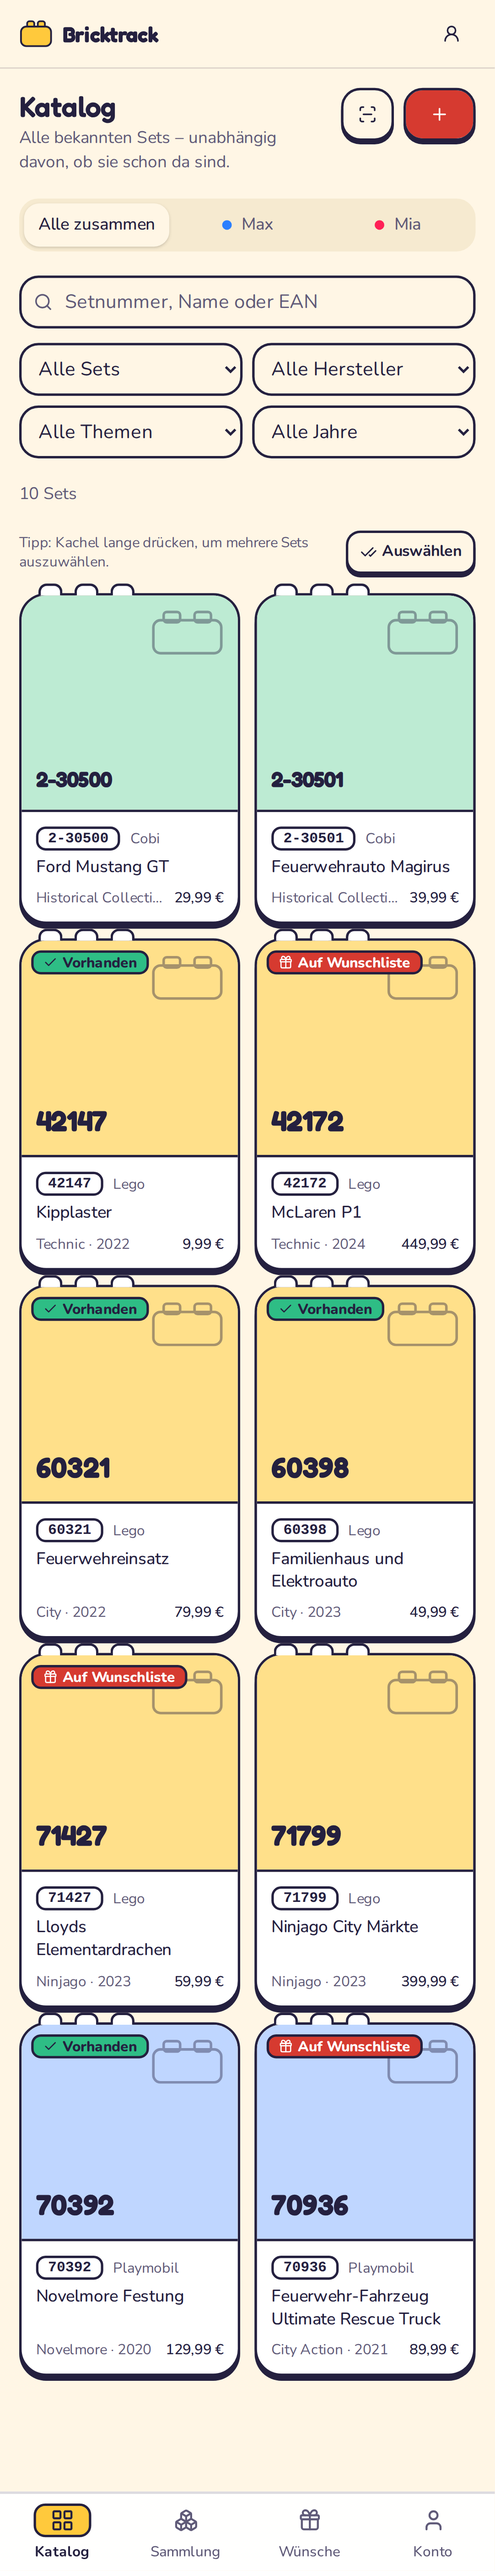
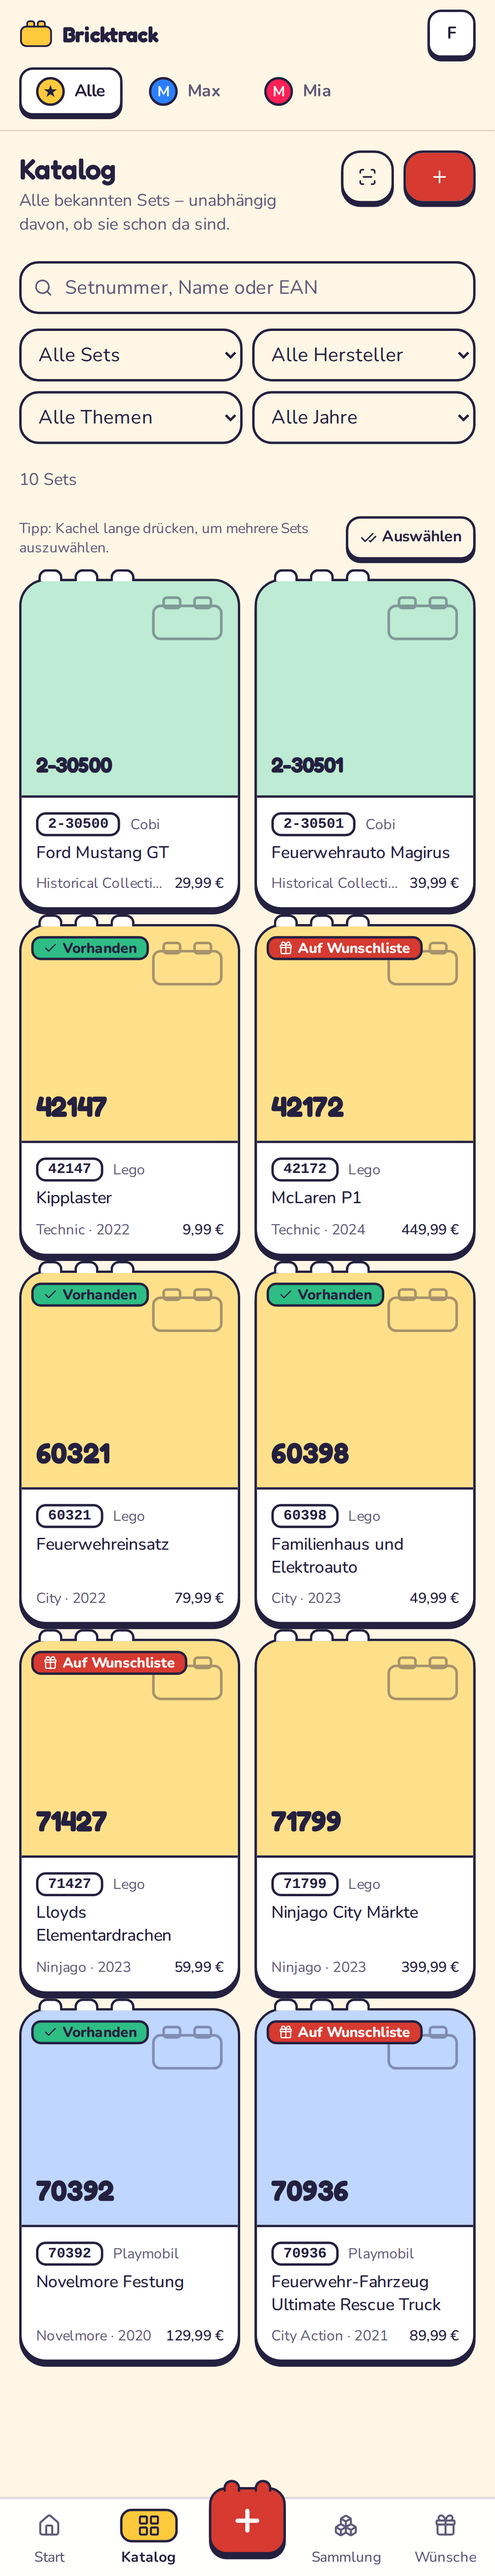
docs: neue navigation in anleitung, schnellstart und screenshots

diff --git a/docs/ANLEITUNG.md b/docs/ANLEITUNG.md
@@ -63,7 +63,21 @@ Die Startseite zeigt auf einen Blick, wo die Sammlung steht:
 | **Abkürzungen** | Direkt zu den fehlenden Sets, zu den Wunschlisten oder zu einem neuen Set |
 
 Unten am Bildschirmrand liegt die Navigation – auf dem Handy mit dem Daumen
-erreichbar. Der aktive Bereich sitzt auf einer kleinen Platte.
+erreichbar: **Start, Katalog, Sammlung, Wünsche** und in der Mitte der rote
+**＋-Stein**. Der aktive Bereich sitzt auf einer kleinen Platte.
+
+![Das Plus-Menü](bilder/26-plus-menue.png)
+
+Das **＋** bündelt alle Wege, wie ein Set in den Katalog kommt: Strichcode
+scannen, aus einem Link übernehmen, Lego-Nummer holen oder von Hand eintragen.
+
+![Die Mehr-Seite](bilder/27-mehr.png)
+
+Alles, was man nicht täglich braucht, liegt hinter dem Kästchen mit deinen
+Initialen oben rechts – der Seite **Mehr**: Konto und Passkeys, Design,
+Sammler, Einladungen, Erinnerungen, Hersteller, Themen, Standorte sowie
+Export und Import. Was nur der Administrator darf, sehen Mitglieder dort gar
+nicht erst.
 
 Sets ohne Bild bekommen einen farbigen Platzhalter mit der Setnummer. Jeder
 Hersteller hat seine eigene Farbe – Lego gelb, Playmobil blau, Cobi grün.
@@ -74,8 +88,9 @@ Hersteller hat seine eigene Farbe – Lego gelb, Playmobil blau, Cobi grün.
 
 ![Hersteller verwalten](bilder/03-verwaltung-hersteller.png)
 
-Bevor du Sets anlegst, brauchst du mindestens einen **Hersteller**. Zu finden
-über das Konto-Menü oben rechts → **Verwaltung**.
+Bevor du Sets von Hand anlegst, brauchst du mindestens einen **Hersteller**.
+Zu finden unter **Mehr → Hersteller**. Der Lego-Import und die Übernahme aus
+einem Link legen fehlende Hersteller selbst an.
 
 Drei Arten von Stammdaten:
 
@@ -117,7 +132,7 @@ Die Kacheln zeigen auf einen Blick:
 - **„Auf Wunschliste"** – steht auf mindestens einer Liste
 - Setnummer, Hersteller, Thema, Jahr und UVP
 
-Mit **„Set anlegen"** oben rechts kommt ein neues Set dazu. Pflicht sind nur
+Über das **＋** in der Navigation kommt ein neues Set dazu. Pflicht sind nur
 Hersteller, Setnummer und Name; alles andere kannst du nachtragen. Ein Bild
 lädst du entweder hoch (es wird verkleinert und lokal gespeichert) oder du
 hinterlegst eine Bild-URL.
@@ -286,7 +301,7 @@ zweites Mal.
 
 ![Konto und Passkeys](bilder/16-konto-passkeys.png)
 
-Unter **Konto → Passkeys → Passkey hinzufügen** hinterlegst du Fingerabdruck,
+Unter **Mehr → Konto & Passkeys → Passkey hinzufügen** hinterlegst du Fingerabdruck,
 Gesichtserkennung oder die Geräte-PIN als Anmeldung. Danach reicht auf der
 Anmeldeseite ein Tipp auf „Mit Passkey anmelden" – auf vielen Geräten schlägt
 der Browser den Passkey sogar von selbst vor.
@@ -310,7 +325,7 @@ Sets von Hand einzutippen ist der langsame Weg. Es gibt drei schnellere.
 
 ### Aus einem Link übernehmen – für alle Hersteller
 
-Auf **Katalog → Set anlegen** steht das Feld „Aus einem Link übernehmen".
+Über **＋ → Aus Link** landest du im Feld „Aus einem Link übernehmen".
 Dort passt jeder Link zu einem Set hinein: Amazon, idealo, geizhals, der Shop
 des Herstellers oder eine Set-Datenbank wie
 [Brickfact](https://brickfact.com) (Lego) und
@@ -340,7 +355,7 @@ Katalog, kommt statt des Formulars ein Link zum vorhandenen Eintrag.
 
 ![Lego-Import](bilder/17-lego-import.png)
 
-Auf **Katalog → Set anlegen** steht oben das Feld für den Import. Setnummer
+Über **＋ → Lego-Nummer** landest du im Feld für den Import. Setnummer
 von der Packung eintippen, „Holen" – und Name, Jahr, Teile, Minifiguren und
 Thema stehen drin. Das Bild wird **lokal gespeichert**, funktioniert also auch
 weiter, wenn die Quelle es irgendwann austauscht. Fehlen Hersteller oder
@@ -393,7 +408,7 @@ der Sammlung stimmt damit, ohne dass du daran denken musst.
 
 Die Registrierung ist nach dem ersten Konto geschlossen – sonst könnte sich
 jeder, der die Adresse kennt, ein Konto anlegen. Für den zweiten Elternteil
-gibt es deshalb **Verwaltung → Einladungen**:
+gibt es deshalb **Mehr → Einladungen**:
 
 1. „Einladung erstellen", optional an eine E-Mail-Adresse gebunden, mit Rolle
    und Gültigkeit.
@@ -411,7 +426,7 @@ zusätzlich einladen und Daten exportieren.
 
 ![Daten](bilder/20-daten.png)
 
-Unter **Verwaltung → Daten** gibt es drei Downloads:
+Unter **Mehr → Export & Import** gibt es drei Downloads:
 
 | | Wofür |
 |---|---|
@@ -471,14 +486,16 @@ Sammler. Ein Set, das nur die Schwester hat, fällt für den Bruder wieder unter
 > vorher. Erst der zweite Sammler schaltet all das frei – und dann willst du
 > es auch.
 
-Anlegen unter **Verwaltung → Sammler**. Jeder bekommt einen Namen und eine
+Anlegen unter **Mehr → Sammler**. Jeder bekommt einen Namen und eine
 Farbe zur Unterscheidung.
 
 ![Nach Sammler filtern](bilder/22-sammler-filter.png)
 
-Danach steht in Katalog und Sammlung oben ein Umschalter. „Alle zusammen"
-zeigt den Haushalt als Ganzes, ein Name zeigt genau dessen Sicht – inklusive
-der Frage, was **diesem** Kind noch fehlt.
+Danach steht oben unter dem Logo der Umschalter **„Für wen?"**. „Alle"
+zeigt den Haushalt als Ganzes, ein Name zeigt genau dessen Sicht – auf der
+Startseite, im Katalog und in der Sammlung, inklusive der Frage, was
+**diesem** Kind noch fehlt. Die Wahl merkt sich jedes Gerät: Das Tablet im
+Kinderzimmer öffnet direkt bei Max.
 
 Beim Hinzufügen zur Sammlung fragt die App jetzt, wer das Set bekommt. Und
 beim Anlegen einer Wunschliste, für wen sie ist: Das bestimmt, wessen Sammlung
@@ -486,7 +503,7 @@ als „hat er schon" zählt und wann ein Wunsch automatisch als erfüllt gilt.
 
 > Die Umstellung einer bestehenden Instanz macht nichts kaputt: Beim Update
 > entsteht ein Sammler namens „Sammlung", dem alles Vorhandene gehört.
-> Umbenennen unter **Verwaltung → Sammler**, fertig.
+> Umbenennen unter **Mehr → Sammler**, fertig.
 
 ---
 
@@ -534,7 +551,7 @@ SMTP_FROM=Bricktrack <bricktrack@example.de>
 REMINDER_DAYS_BEFORE=14
 ```
 
-Unter **Verwaltung → Erinnerungen** kannst du die Verbindung prüfen, dir eine
+Unter **Mehr → Erinnerungen** kannst du die Verbindung prüfen, dir eine
 Testnachricht schicken und die Prüfung sofort auslösen, statt auf die nächste
 Stunde zu warten. Dort steht auch, welche Listen einen Termin haben und wie
 viel dort noch offen ist.
@@ -583,7 +600,7 @@ Haken dran, habt ihr es schon.
 
 ![Startseite im Design Nachtblau](bilder/25-design-nachtblau.png)
 
-Unter **Konto → Design** gibt es sechs Looks zur Auswahl:
+Unter **Mehr → Design** gibt es sechs Looks zur Auswahl:
 
 | Design | |
 |---|---|

diff --git a/QUICKSTART.md b/QUICKSTART.md
@@ -144,16 +144,16 @@ tut.
 
 ## 7. Passkey hinterlegen
 
-Unter **Konto → Passkeys → Passkey hinzufügen**. Ab dann meldest du dich per
+Unter **Mehr → Konto & Passkeys → Passkey hinzufügen** (das Kästchen mit deinen Initialen oben rechts). Ab dann meldest du dich per
 Fingerabdruck, Gesichtserkennung oder Geräte-PIN an. Für jedes Gerät ein
 eigener Passkey – Handy, Tablet, Laptop.
 
 ## 8. Loslegen
 
-1. **Verwaltung → Hersteller**: Lego, Playmobil, Cobi … anlegen.
-2. **Verwaltung → Themen**: „City", „Technic", „Novelmore" …
-3. **Verwaltung → Standorte**: „Regal Kinderzimmer", „Kiste Keller 3" …
-4. **Katalog → Set anlegen**: Setnummer, Name, Bild.
+1. **Mehr → Hersteller**: Lego, Playmobil, Cobi … anlegen.
+2. **Mehr → Themen**: „City", „Technic", „Novelmore" …
+3. **Mehr → Standorte**: „Regal Kinderzimmer", „Kiste Keller 3" …
+4. **＋ in der Navigation → Von Hand**: Setnummer, Name, Bild.
 5. Auf der Set-Seite **„Zur Sammlung hinzufügen"**, wenn das Set da ist.
 6. **Katalog → Filter „Fehlt noch"**: Kachel lange drücken, mehrere auswählen,
    **„Zur Wunschliste hinzufügen"**.

diff --git a/CHANGELOG.md b/CHANGELOG.md
@@ -7,6 +7,24 @@ die Versionierung [Semantic Versioning](https://semver.org/lang/de/).
 
 ## [Unreleased]
 
+### Geändert
+
+- **Neue Navigation**: unten Start, Katalog, Sammlung, Wünsche und in der
+  Mitte ein ＋-Stein mit allen Wegen zu einem neuen Set (Scannen, aus Link,
+  Lego-Nummer, von Hand).
+- **„Mehr" statt Konto-Menü und Verwaltungsreitern**: Konto, Design,
+  Sammler, Einladungen, Erinnerungen, Hersteller, Themen, Standorte und
+  Export/Import als Kacheln in Gruppen, oben rechts hinter den Initialen.
+- **„Für wen?" in der Kopfzeile**: Bei mehreren Sammlern wird das Kind einmal
+  oben gewählt und gilt für Startseite, Katalog und Sammlung. Jedes Gerät
+  merkt sich die Wahl; ein `?sammler=` im Link hat weiterhin Vorrang.
+
+### Behoben
+
+- Mitglieder (nicht Admin) kamen nicht an Sammler, Hersteller, Themen und
+  Standorte heran, obwohl sie diese pflegen dürfen: Der Eintrag
+  „Verwaltung" stand nur im Menü des Administrators.
+
 ### Hinzugefügt
 
 - **Set aus einem Link übernehmen**, für alle Hersteller: Amazon, idealo,

diff --git a/CLAUDE.md b/CLAUDE.md
@@ -63,6 +63,8 @@ Bild-URLs, die der Nutzer selbst hinterlegt hat.
 | `src/lib/reminder-job.ts`, `src/lib/mailer.ts` | Versand und Zeitplan |
 | `src/lib/export.ts` | Export und Import des gesamten Bestands |
 | `src/lib/money.ts`, `src/lib/format.ts` | Cent-Umrechnung, dd.MM.yyyy |
+| `src/components/layout/more-items.ts` | Eintraege der Seite „Mehr" (Konto, Design, Stammdaten), auch Titel der Verwaltungsseiten |
+| `src/lib/collector-choice.ts` | Aktiver Sammler: `?sammler=` vor Cookie aus dem Umschalter „Fuer wen?" |
 | `src/lib/link-import.ts` | Set-Daten aus Link und Seite lesen (rein, testbar) |
 | `src/lib/safe-fetch.ts`, `src/lib/net-guard.ts` | Abruf fremder URLs nur an oeffentliche Adressen |
 | `src/lib/design.ts`, `src/app/designs.css` | Designs: Namen und Cookie bzw. Tokens je `data-design` |
